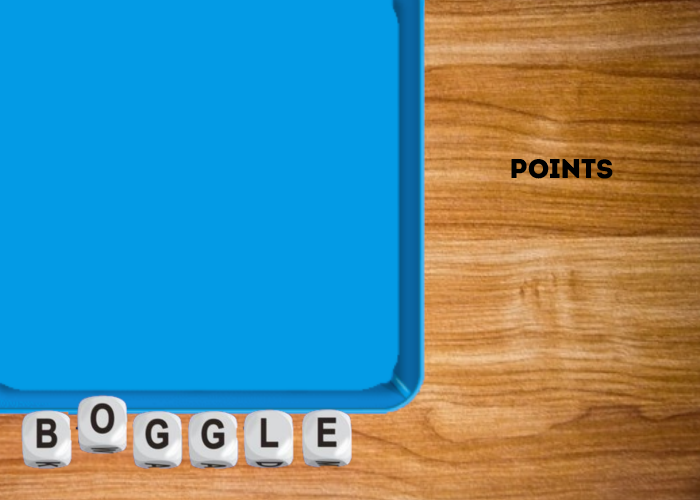
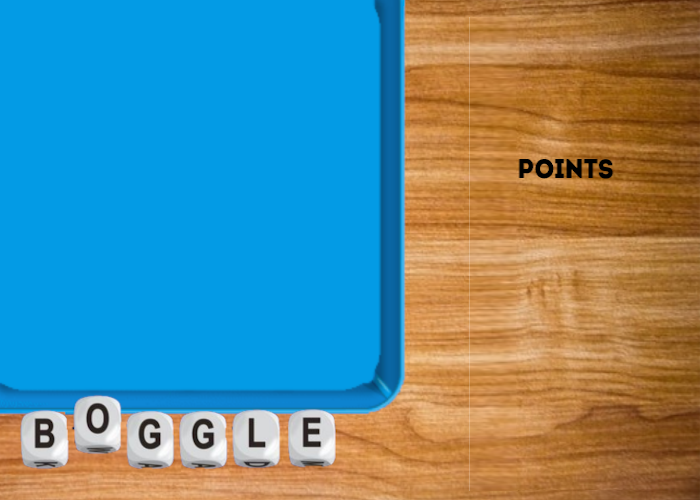
updated GUI, timer, and background to make the GUI look a little nicer.

diff --git a/Boggle/src/BoggleGUI.java b/Boggle/src/BoggleGUI.java
@@ -1,29 +1,18 @@
 import java.awt.BorderLayout;
 import java.awt.Color;
+import java.awt.Dimension;
 import java.awt.FlowLayout;
 import java.awt.GridLayout;
 import java.awt.Image;
 import java.awt.event.ActionEvent;
 import java.awt.event.ActionListener;
-import java.io.File;
-import java.io.FileInputStream;
 import java.io.IOException;
-import java.io.InputStream;
-
 import javax.imageio.ImageIO;
-import javax.sound.sampled.AudioInputStream;
-import javax.sound.sampled.AudioSystem;
-import javax.sound.sampled.Clip;
-import javax.sound.sampled.LineUnavailableException;
-import javax.sound.sampled.TargetDataLine;
-import javax.sound.sampled.UnsupportedAudioFileException;
-import javax.swing.AbstractButton;
 import javax.swing.BorderFactory;
 import javax.swing.ImageIcon;
 import javax.swing.JButton;
 import javax.swing.JFrame;
 import javax.swing.JLabel;
-import javax.swing.JOptionPane;
 import javax.swing.JPanel;
 import javax.swing.JScrollPane;
 import javax.swing.JTextArea;
@@ -40,8 +29,7 @@ public class BoggleGUI extends JFrame implements ActionListener {
 
 	private JPanel leftPanel = new JPanel(new GridLayout(4,4));
 	private JPanel rightPanel = new JPanel(new GridLayout(3,4));
-	private JPanel bottomPanel = new JPanel(new BorderLayout());
-	private JPanel mainPanel = new JPanel(new BorderLayout());
+	private JPanel bottomPanel = new JPanel(new FlowLayout((FlowLayout.RIGHT)));
 	
 	private JTextArea displayArea = new JTextArea(7, 10);
 	private JTextArea displayAreaConfirmedWords = new JTextArea(7, 10);
@@ -82,10 +70,7 @@ public class BoggleGUI extends JFrame implements ActionListener {
 		setLocationRelativeTo(null);
 		setDefaultCloseOperation(JFrame.EXIT_ON_CLOSE);
 		getContentPane().setLayout(new BorderLayout());
-		
-		// Background image icon
-		ImageIcon backgroundImage = new ImageIcon("Resources/Board2.png");
-		
+				
 		
 		// Boggle Board is divided into three panels. 
 		// Left for the dies
@@ -97,7 +82,8 @@ public class BoggleGUI extends JFrame implements ActionListener {
 		addPanelsToFrame();
 		addListener();
 		tree.importDictionary();
-				
+
+		
 		setVisible(true);
 	}
 	
@@ -114,7 +100,7 @@ public class BoggleGUI extends JFrame implements ActionListener {
 
 		clearBooleanBoard(nextSelection);
 
-		
+
 		
 		 //2 for loops that get the x & y coordinate
 		for(int x=0; x<4; x++) {
@@ -123,14 +109,16 @@ public class BoggleGUI extends JFrame implements ActionListener {
       			  int xPosition = x;
 
       			button = new JButton("" + diceSet[count]);
+      		    button.setFont(new Font("Dialog", Font.PLAIN, 40));
+
       			try {
       		        Image img = ImageIO.read(getClass().getResource("Resources/blankDice.png"));
       		      Image imgResize = img.getScaledInstance(90, 90, Image.SCALE_DEFAULT);
       		      button.setBorder(BorderFactory.createEmptyBorder());
       		      button.setContentAreaFilled(false);
-      		    button.setHorizontalTextPosition(JButton.CENTER);
-      		  button.setVerticalTextPosition(JButton.CENTER);
-        	        button.setIcon(new ImageIcon(imgResize));         
+      		      button.setHorizontalTextPosition(JButton.CENTER);
+      		      button.setVerticalTextPosition(JButton.CENTER);
+        	      button.setIcon(new ImageIcon(imgResize));         
       		      } catch (IOException ex) {
       		    	  System.out.println("Dice pic not found");
       		      }
@@ -333,6 +321,7 @@ public class BoggleGUI extends JFrame implements ActionListener {
 		rightPanel.add(displayAreaConfirmedWords);
 		rightPanel.add(displayArea);
 		pointLabel.setFont(new Font("Lemon", Font.BOLD, 26));
+
 		
 		rightPanel.add(pointLabel);
 		displayArea.setEditable(false);
@@ -355,7 +344,7 @@ public class BoggleGUI extends JFrame implements ActionListener {
 	
 	// Timer panel. 
 	private void buildBottomPanel() {
-		bottomPanel.add(timer, BorderLayout.WEST);	
+		bottomPanel.add(timer);	
 		bottomPanel.setOpaque(false);
 	}
 	
@@ -363,13 +352,23 @@ public class BoggleGUI extends JFrame implements ActionListener {
     private void addPanelsToFrame() {
 
         lblBackgroundImage.setLayout(new FlowLayout());
+        lblBackgroundImage.setBounds(0, 0, 800, 600);
+
+        lblBackgroundImage.setSize(1000, 1000); //this will resize window
 
         lblBackgroundImage.setIcon(new ImageIcon("src/Resources/Board2.png"));
+		JButton buttonex = new JButton();
+		buttonex.setOpaque(false);
+		buttonex.setContentAreaFilled(false);
+		buttonex.setBorderPainted(false);
+		buttonex.setPreferredSize(new Dimension(30,100));
 
 
-        lblBackgroundImage.add(leftPanel, BorderLayout.WEST);
-        lblBackgroundImage.add(rightPanel, BorderLayout.EAST);
-        lblBackgroundImage.add(bottomPanel, BorderLayout.SOUTH);
+
+        lblBackgroundImage.add(leftPanel);
+        lblBackgroundImage.add(buttonex);
+        lblBackgroundImage.add(rightPanel);
+        lblBackgroundImage.add(bottomPanel);
         getContentPane().add(lblBackgroundImage);
         
     }

diff --git a/Boggle/src/timer.java b/Boggle/src/timer.java
@@ -1,3 +1,4 @@
+import java.awt.BorderLayout;
 import java.awt.Color;
 import java.awt.event.ActionEvent;
 import java.awt.event.ActionListener;
@@ -11,8 +12,8 @@ public class timer extends JPanel {
   Timer timer;
   int count = 180;
   boolean inGame;
-  
-  
+  JPanel timerPanel;
+
   public timer() 
   {
 	//set to false until the counter starts
